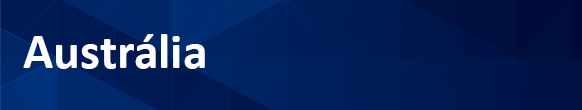
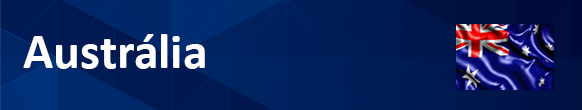
Flags

Changed region(s): [[0.7732, 0.2182, 0.9588, 0.8182]]

diff --git a/viagens.html b/viagens.html
@@ -13,9 +13,10 @@
             <h2></h2>
         </header>
         <article>
+            <img class="right" src="imgs/logo_viagens.png" alt="Viagens">
             <ul>
                 <li>
-                    <p><a href="viagens-australia.html">Austrália</a></p>                    
+                    <p><a href="viagens-australia.html">Austrália</a></p>
                 </li>
             </ul>
         </article>

diff --git a/viagens-australia.html b/viagens-australia.html
@@ -28,7 +28,7 @@
         </article>
         <article>
             <h2></h2>
-            <a href="viagens.html"><img src="imagens/botao_voltar.png" alt="Voltar"></a>
+            <a href="viagens.html"><img src="imgs/botao_voltar.png" alt="Voltar"></a>
         </article>
     </main>
     <img class="center" src="front/botton_pages.png" alt="Botton">

diff --git a/viagens-eua.html b/viagens-eua.html
@@ -28,7 +28,7 @@
         </article>
         <article>
             <h2></h2>
-            <a href="viagens.html"><img src="imagens/botao_voltar.png" alt="Voltar"></a>
+            <a href="viagens.html"><img src="imgs/botao_voltar.png" alt="Voltar"></a>
         </article>
     </main>
     <img class="center" src="front/botton_pages.png" alt="Botton">
